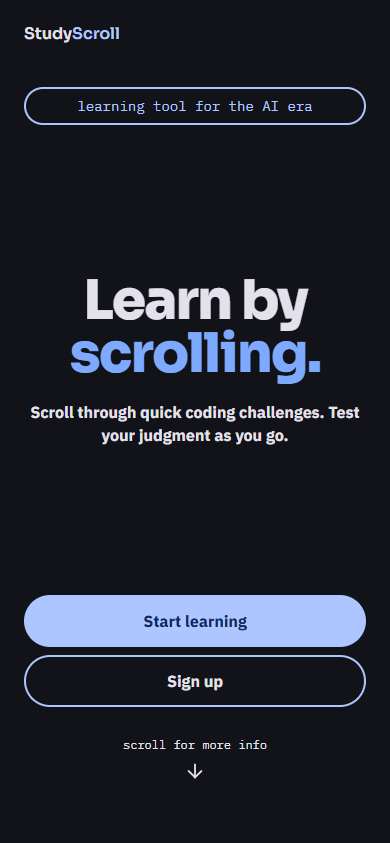
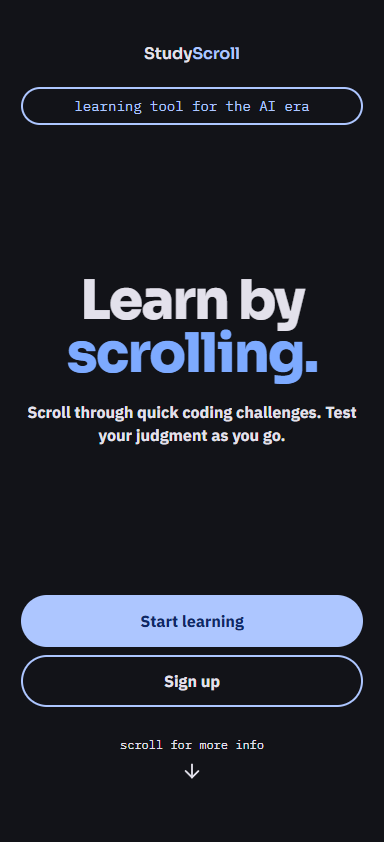
updateed readme

diff --git a/README.md b/README.md
@@ -7,7 +7,7 @@ The idea is simple: instead of asking people to build a new learning habit, make
 **[Try the live app](https://study-scroll-silk.vercel.app)**
 
 <p align="center">
-  <img src="docs/images/landing.png" alt="StudyScroll mobile landing page" width="390" />
+  <img src="docs/images/landing.png" alt="StudyScroll mobile landing page" width="384" />
 </p>
 
 <p align="center">